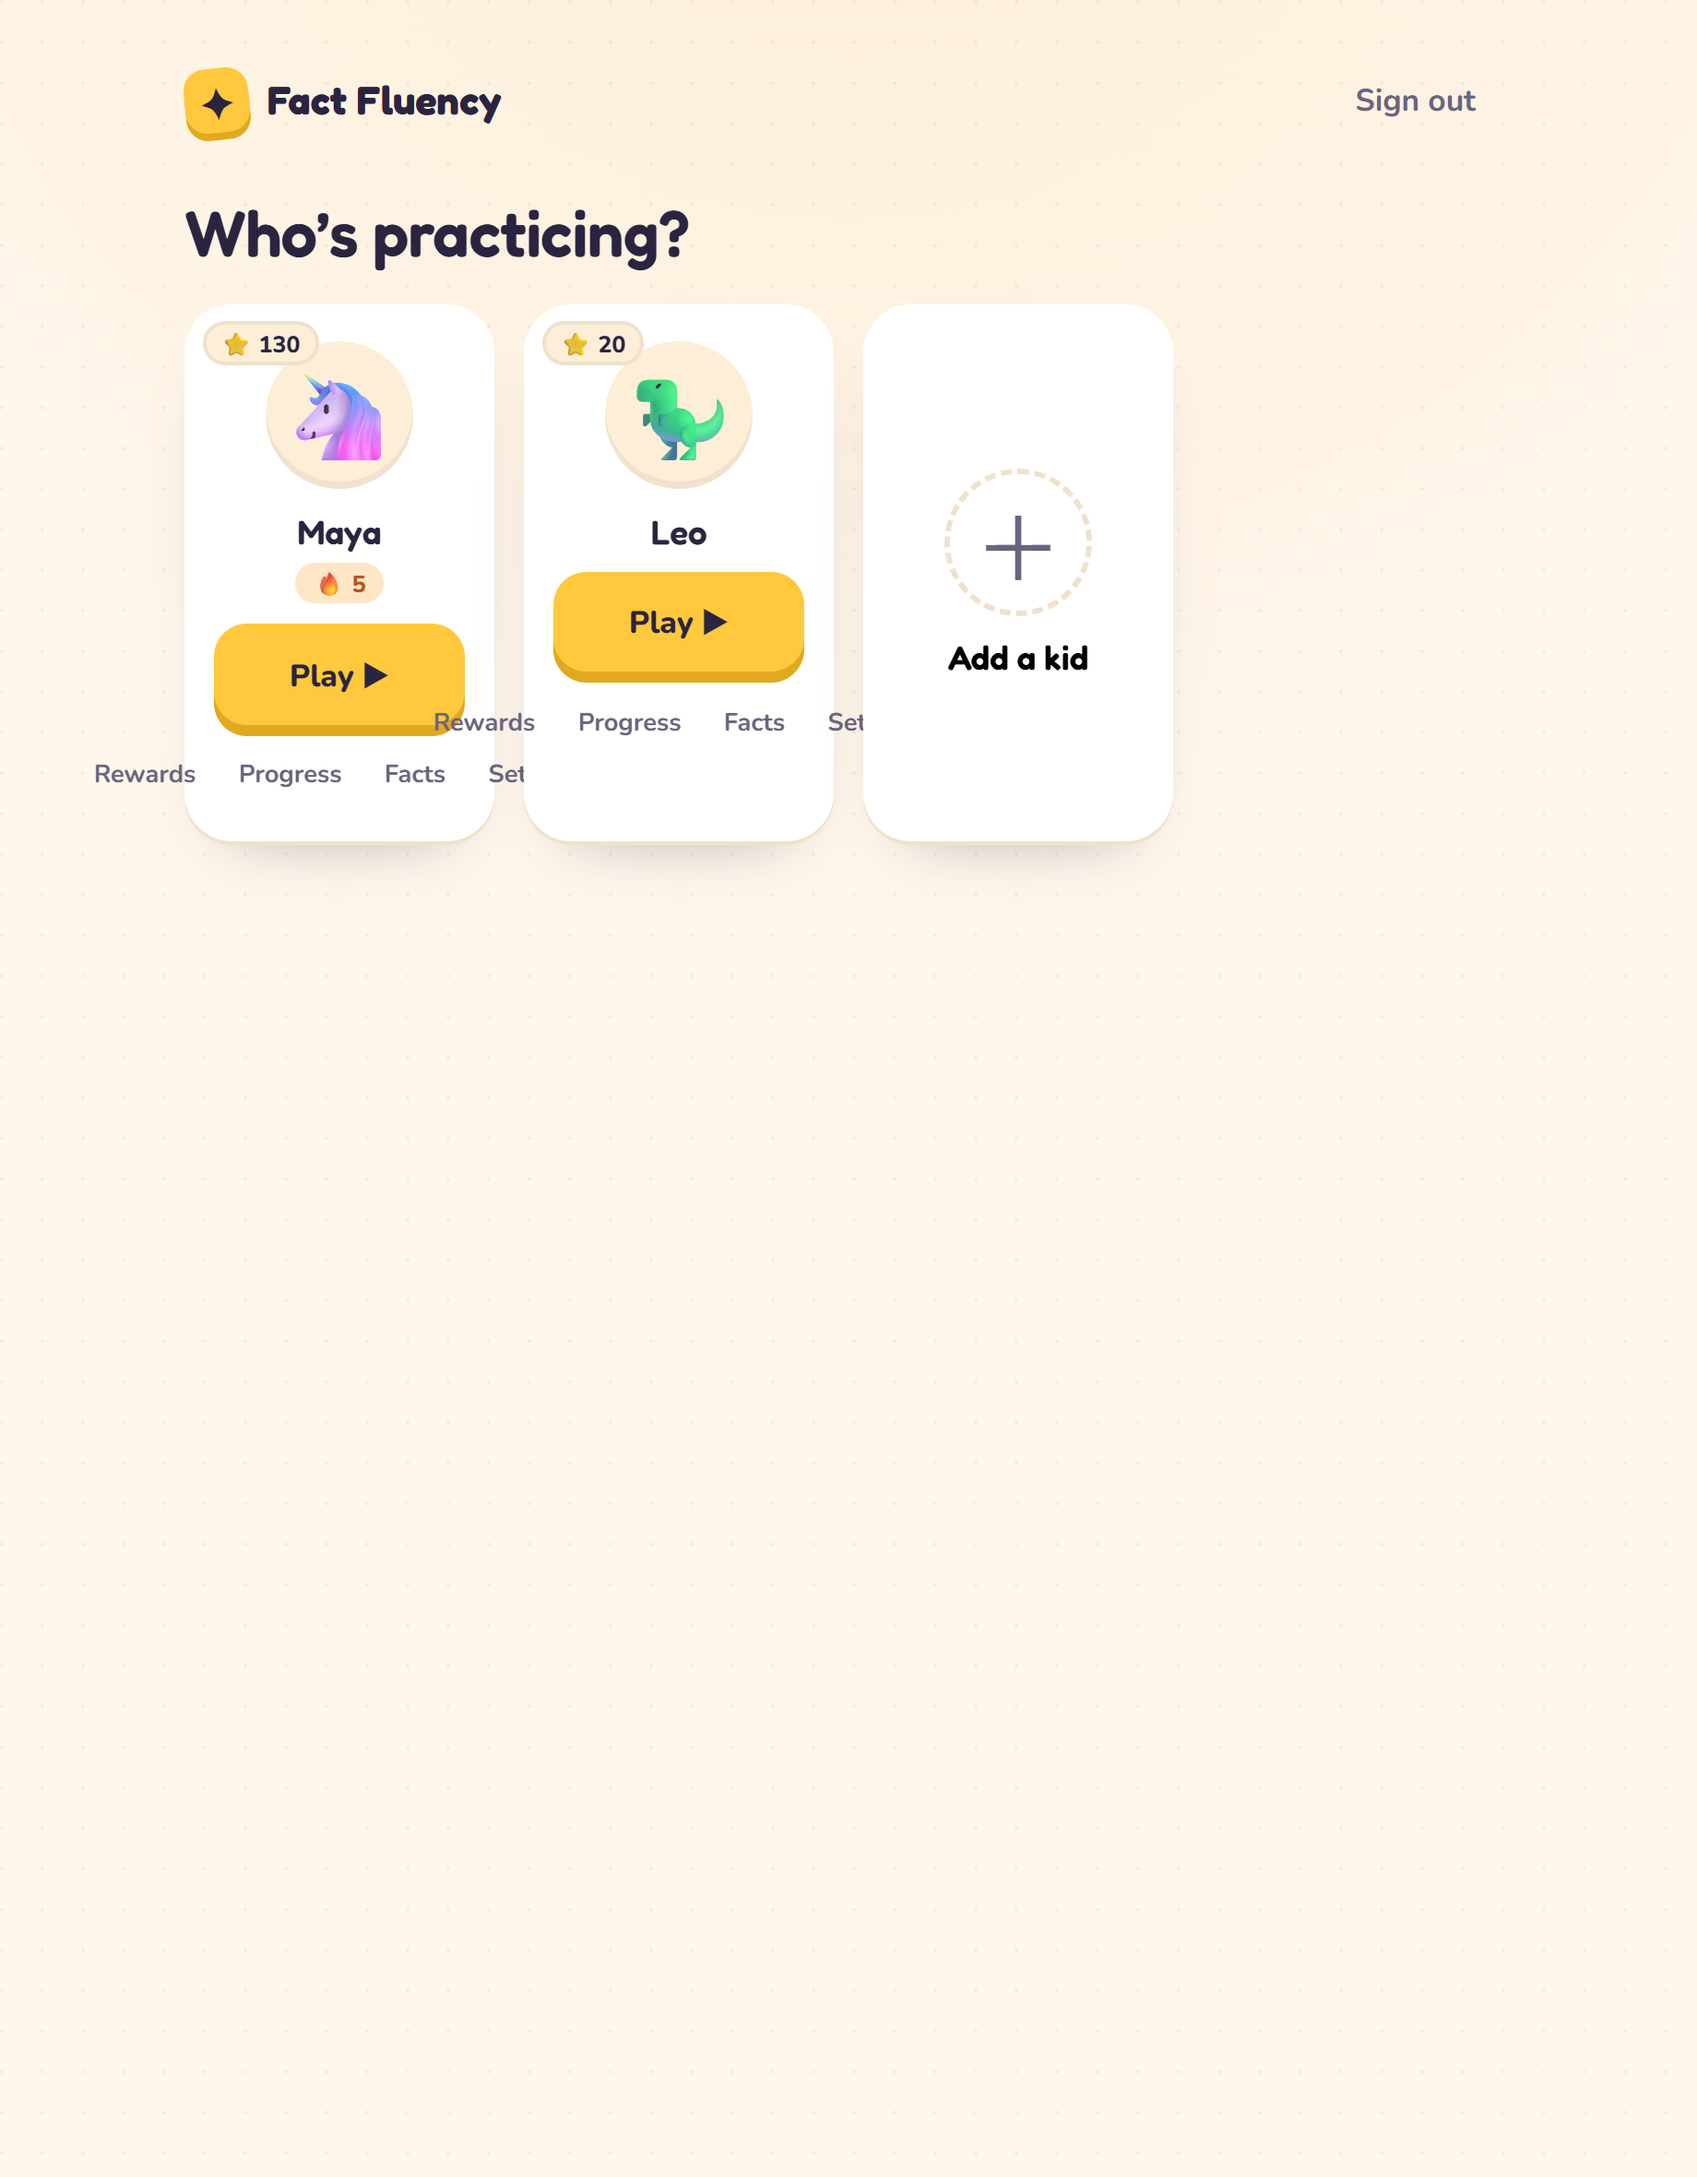
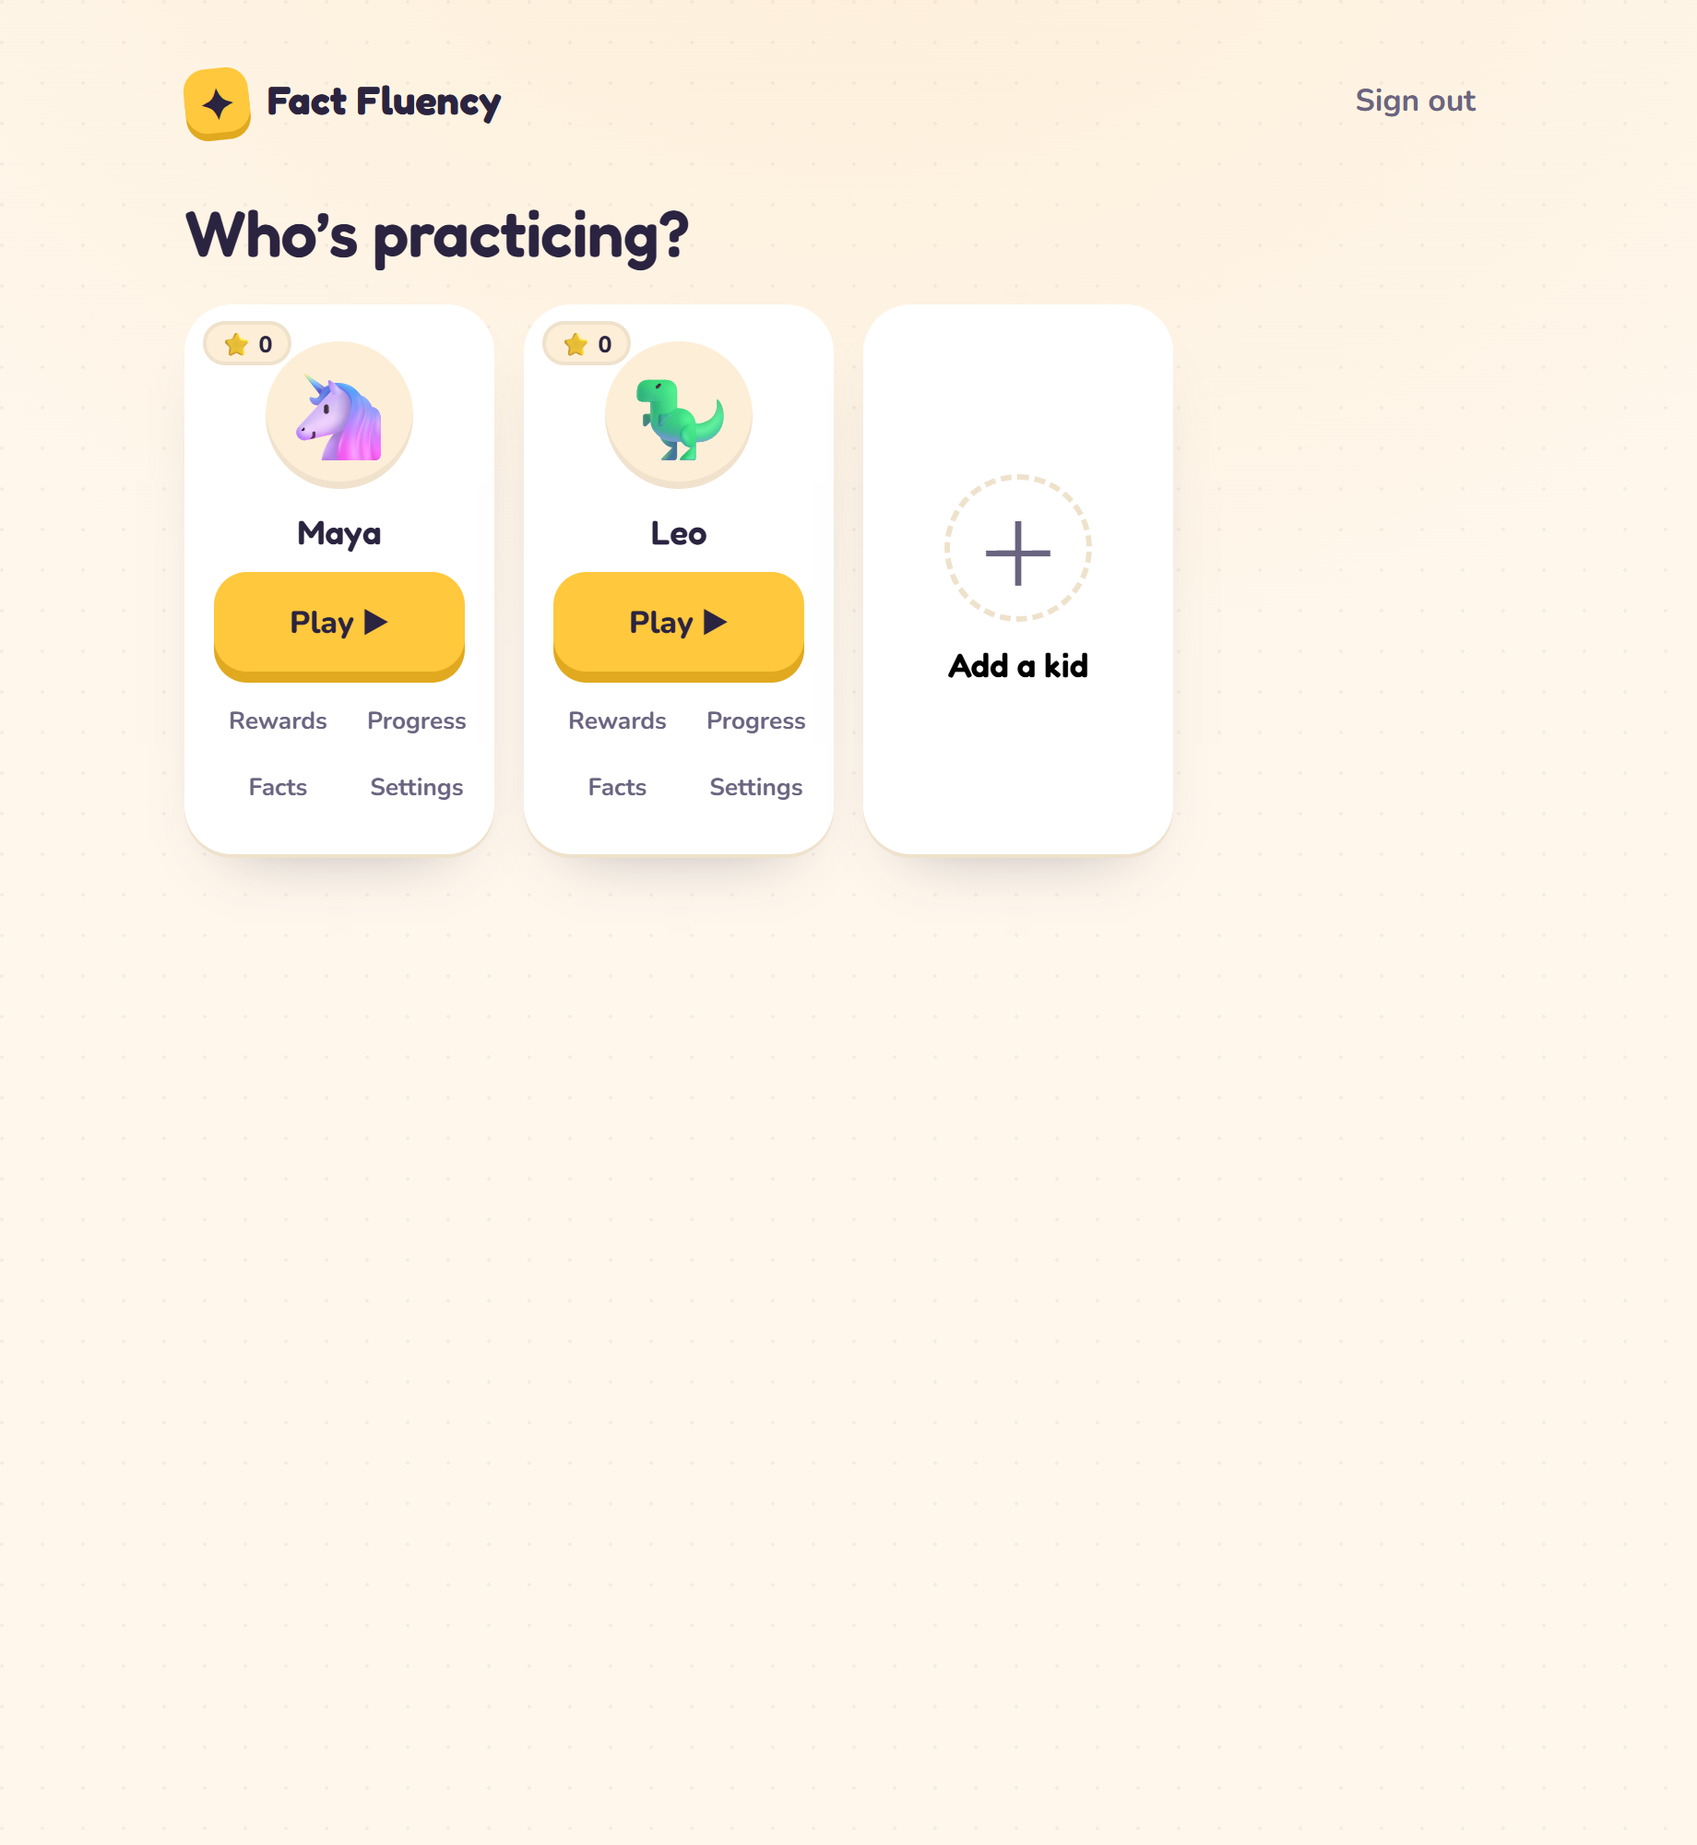
Fix profile-tile action overlap; scope CSRF guard to prod (dev proxy)
- Profile tiles: the 4 action buttons (Rewards/Progress/Facts/Settings)
  overflowed the 150px tile and overlapped neighbors; now a 2x2 grid
  inside the tile. Anchored the coin badge with position:relative.
- Same-origin CSRF guard now applies in prod only: Vite's dev proxy
  rewrites Host so Origin wouldn't match, which was 403-ing every dev
  mutating request. Dev keeps SameSite=Lax; prod CSRF protection intact
  (verified live). Re-screenshotted the picker. 144 tests.

diff --git a/server/src/security.test.ts b/server/src/security.test.ts
@@ -41,9 +41,9 @@ describe('error handling', () => {
   });
 });
 
-describe('same-origin guard (CSRF defense-in-depth)', () => {
-  it('rejects a cross-origin mutating request', async () => {
-    const res = await request(app(false))
+describe('same-origin guard (CSRF defense-in-depth, prod only)', () => {
+  it('rejects a cross-origin mutating request in prod', async () => {
+    const res = await request(app(true))
       .post('/api/auth/login')
       .set('Origin', 'http://evil.example')
       .send({ email: 'a@b.co', password: 'whatever12' });
@@ -52,14 +52,22 @@ describe('same-origin guard (CSRF defense-in-depth)', () => {
   });
 
   it('allows a mutating request with no Origin (fails open)', async () => {
-    const res = await request(app(false))
+    const res = await request(app(true))
       .post('/api/auth/login')
       .send({ email: 'a@b.co', password: 'whatever12' });
     expect(res.status).not.toBe(403); // reaches the handler (401 invalid creds)
   });
 
   it('does not block safe (GET) requests', async () => {
-    const res = await request(app(false)).get('/api/health').set('Origin', 'http://evil.example');
+    const res = await request(app(true)).get('/api/health').set('Origin', 'http://evil.example');
     expect(res.status).toBe(200);
+  });
+
+  it('does not guard in dev (Vite proxy rewrites Host)', async () => {
+    const res = await request(app(false))
+      .post('/api/auth/login')
+      .set('Origin', 'http://evil.example')
+      .send({ email: 'a@b.co', password: 'whatever12' });
+    expect(res.status).not.toBe(403); // dev relies on SameSite=Lax instead
   });
 });

diff --git a/server/src/app.ts b/server/src/app.ts
@@ -21,7 +21,10 @@ export function createApp(db: Db, isProd: boolean): Application {
   app.use(cookieParser(process.env.COOKIE_SECRET ?? 'dev-only-change-me'));
   app.use(attachAccount(db));
 
-  app.use('/api', sameOriginGuard(), createApiRouter(db, isProd));
+  // CSRF same-origin guard is a production concern (and the dev Vite proxy
+  // rewrites Host so Origin wouldn't match). Dev still has SameSite=Lax cookies.
+  const apiGuards = isProd ? [sameOriginGuard()] : [];
+  app.use('/api', ...apiGuards, createApiRouter(db, isProd));
 
   if (isProd) {
     const clientDist = path.resolve(__dirname, '../../client/dist');

diff --git a/client/src/pages/ProfilesPage.css b/client/src/pages/ProfilesPage.css
@@ -15,6 +15,7 @@
 }
 
 .profile-tile {
+  position: relative; /* anchor the absolutely-positioned coin badge */
   background: var(--card);
   border: none;
   border-radius: var(--r-lg);
@@ -64,12 +65,15 @@
 }
 
 .tile-actions {
-  display: flex;
-  gap: 0.25rem;
+  display: grid;
+  grid-template-columns: 1fr 1fr;
+  gap: 0.35rem;
+  width: 100%;
 }
 .tile-actions .btn.ghost {
-  padding: 0.4rem 0.6rem;
-  font-size: 0.85rem;
+  padding: 0.4rem 0.5rem;
+  font-size: 0.82rem;
+  white-space: nowrap;
 }
 
 .add-tile {
